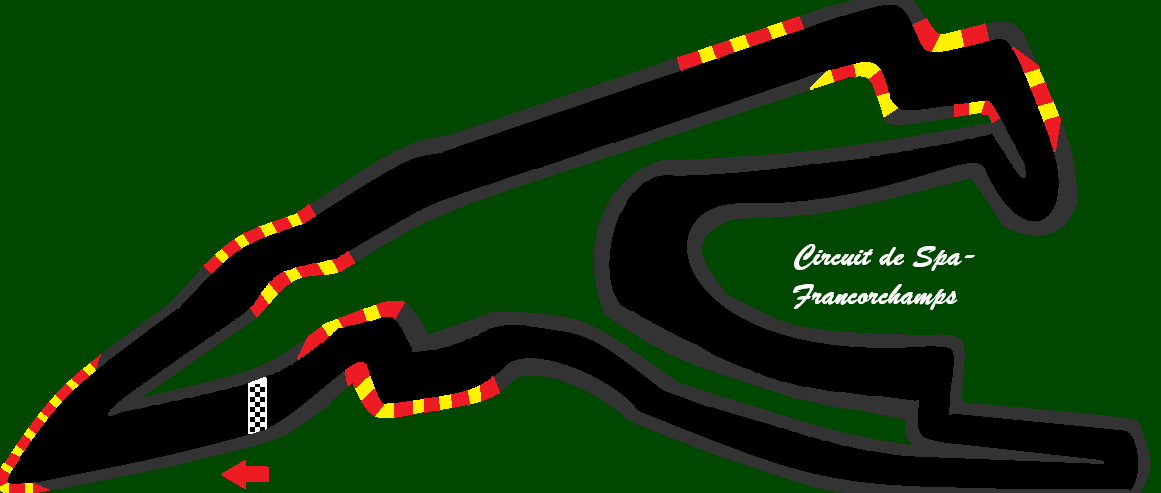
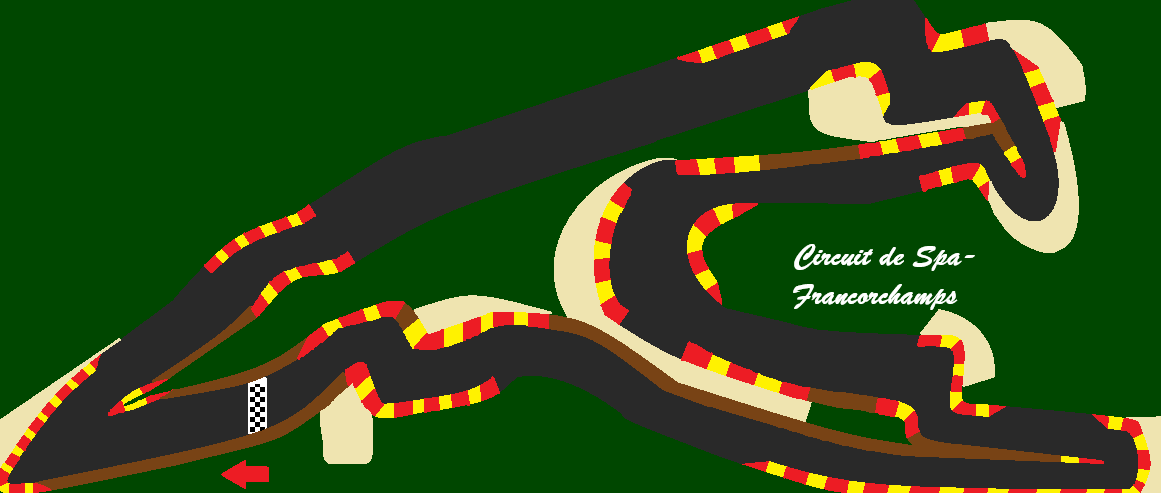
circuit tah les fous

diff --git a/Formula1/main.py b/Formula1/main.py
@@ -39,6 +39,7 @@ green = (0, 71, 0)  # Couleur des bords du circuit pour la détection des collis
 yellow = (239, 228, 176)  # Couleur du sable
 green_launcher = (144, 238, 144)  # Couleur de fond du launcher
 black = (0, 0, 0)
+brown = (120,67,21)
 
 # Charger les images de voitures et de circuits
 car_image = pygame.image.load('car.png')
@@ -323,7 +324,7 @@ def game_loop(selected_track):
                 deceleration = sand_deceleration
             else:
                 deceleration = base_deceleration
-            if track_images[selected_track].get_at((int(car_x), int(car_y))) == green:
+            if track_images[selected_track].get_at((int(car_x), int(car_y))) == green or track_images[selected_track].get_at((int(car_x), int(car_y))) == brown:
                 show_game_over(selected_track,best_time)
                 game_exit = True
         except IndexError:
